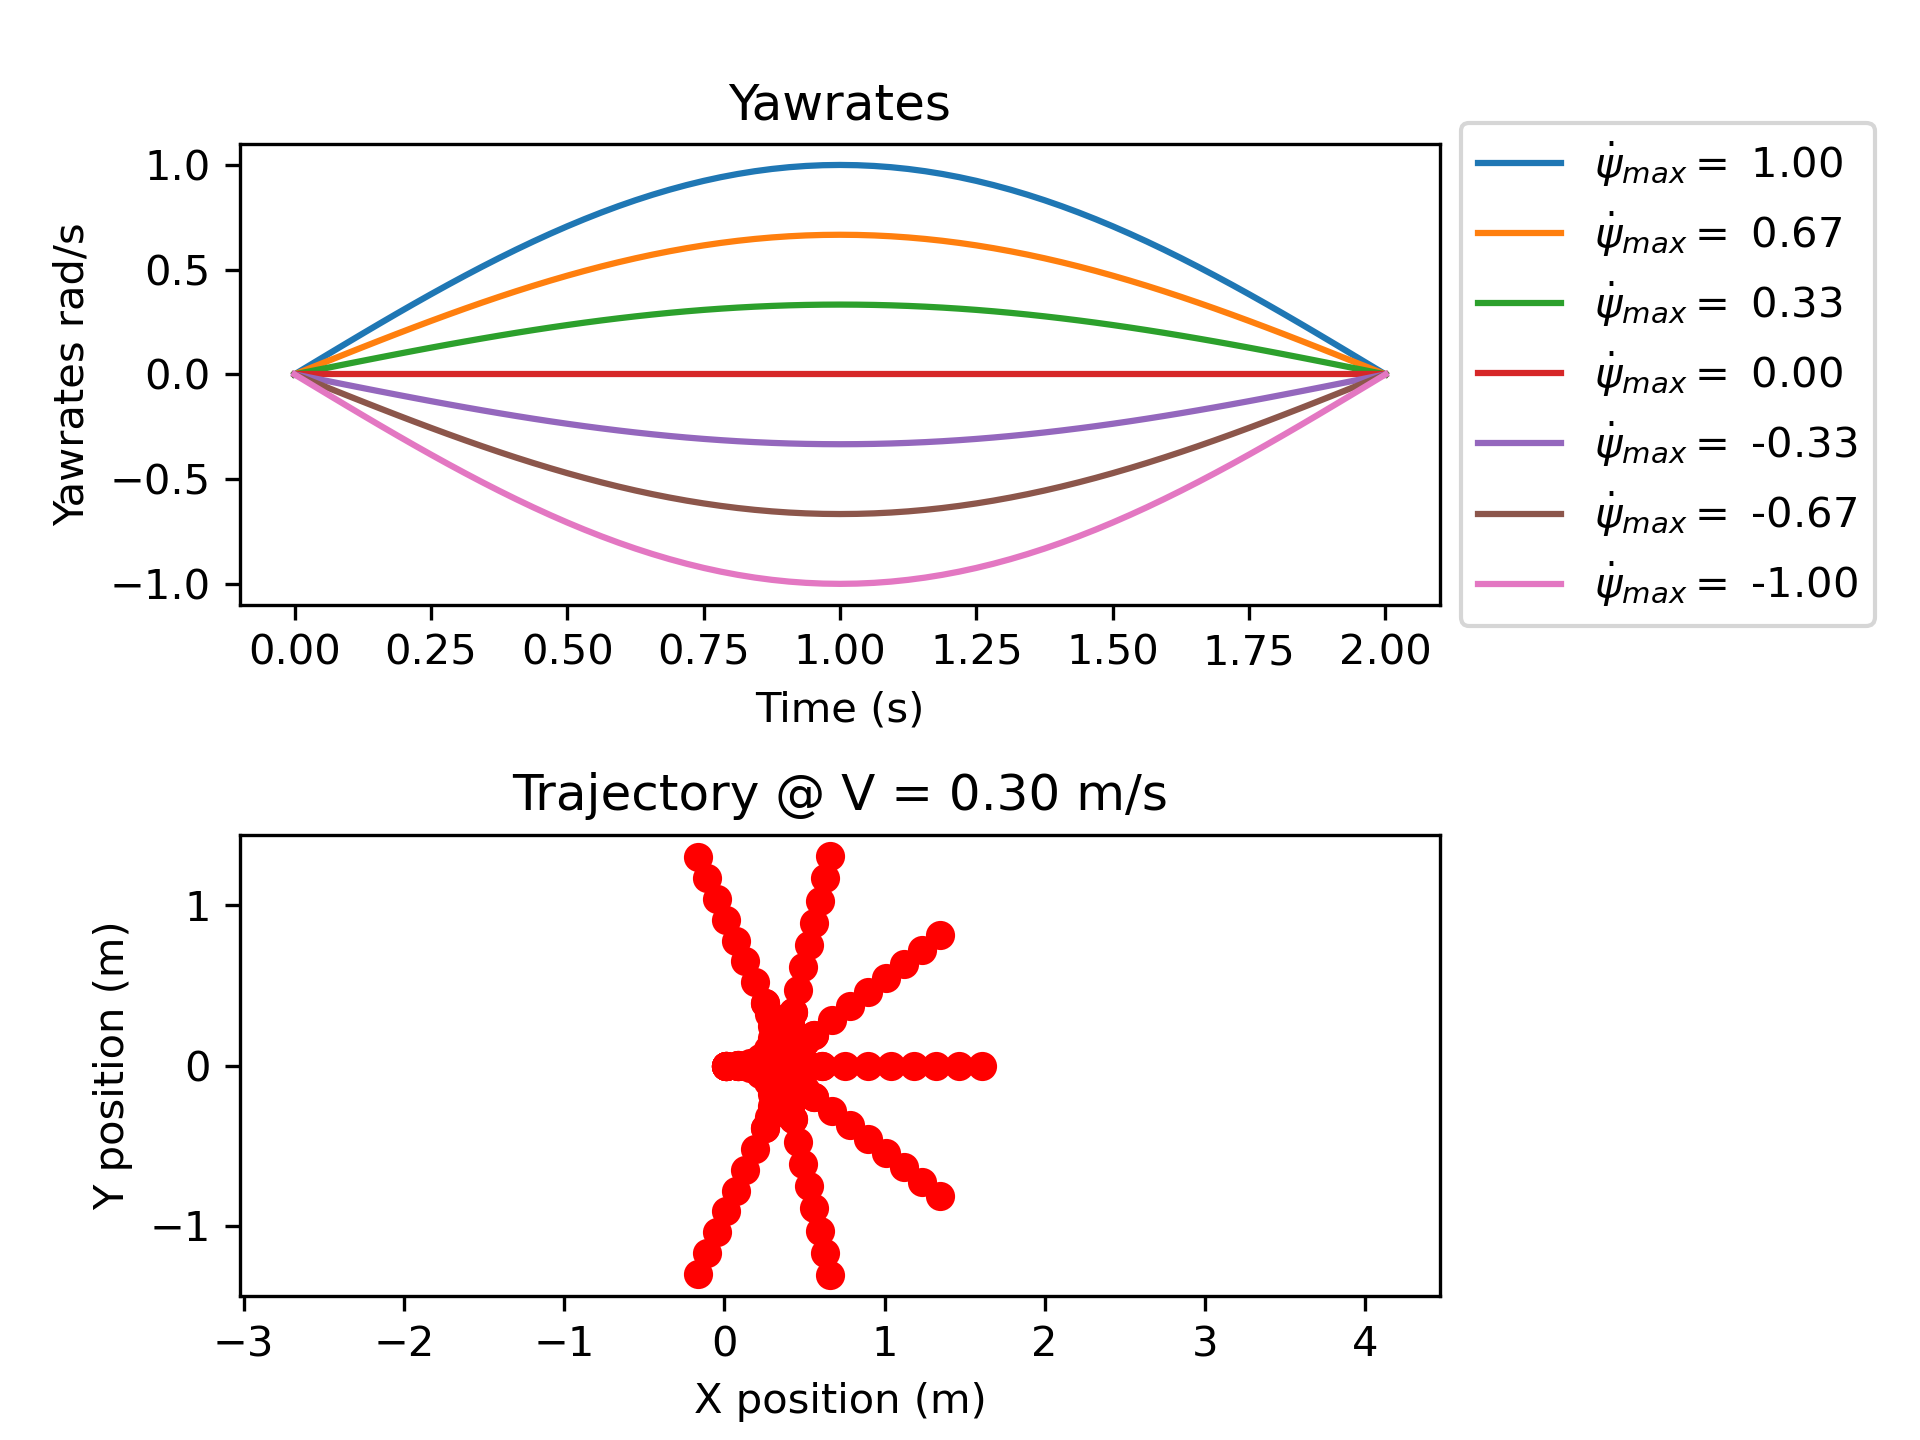
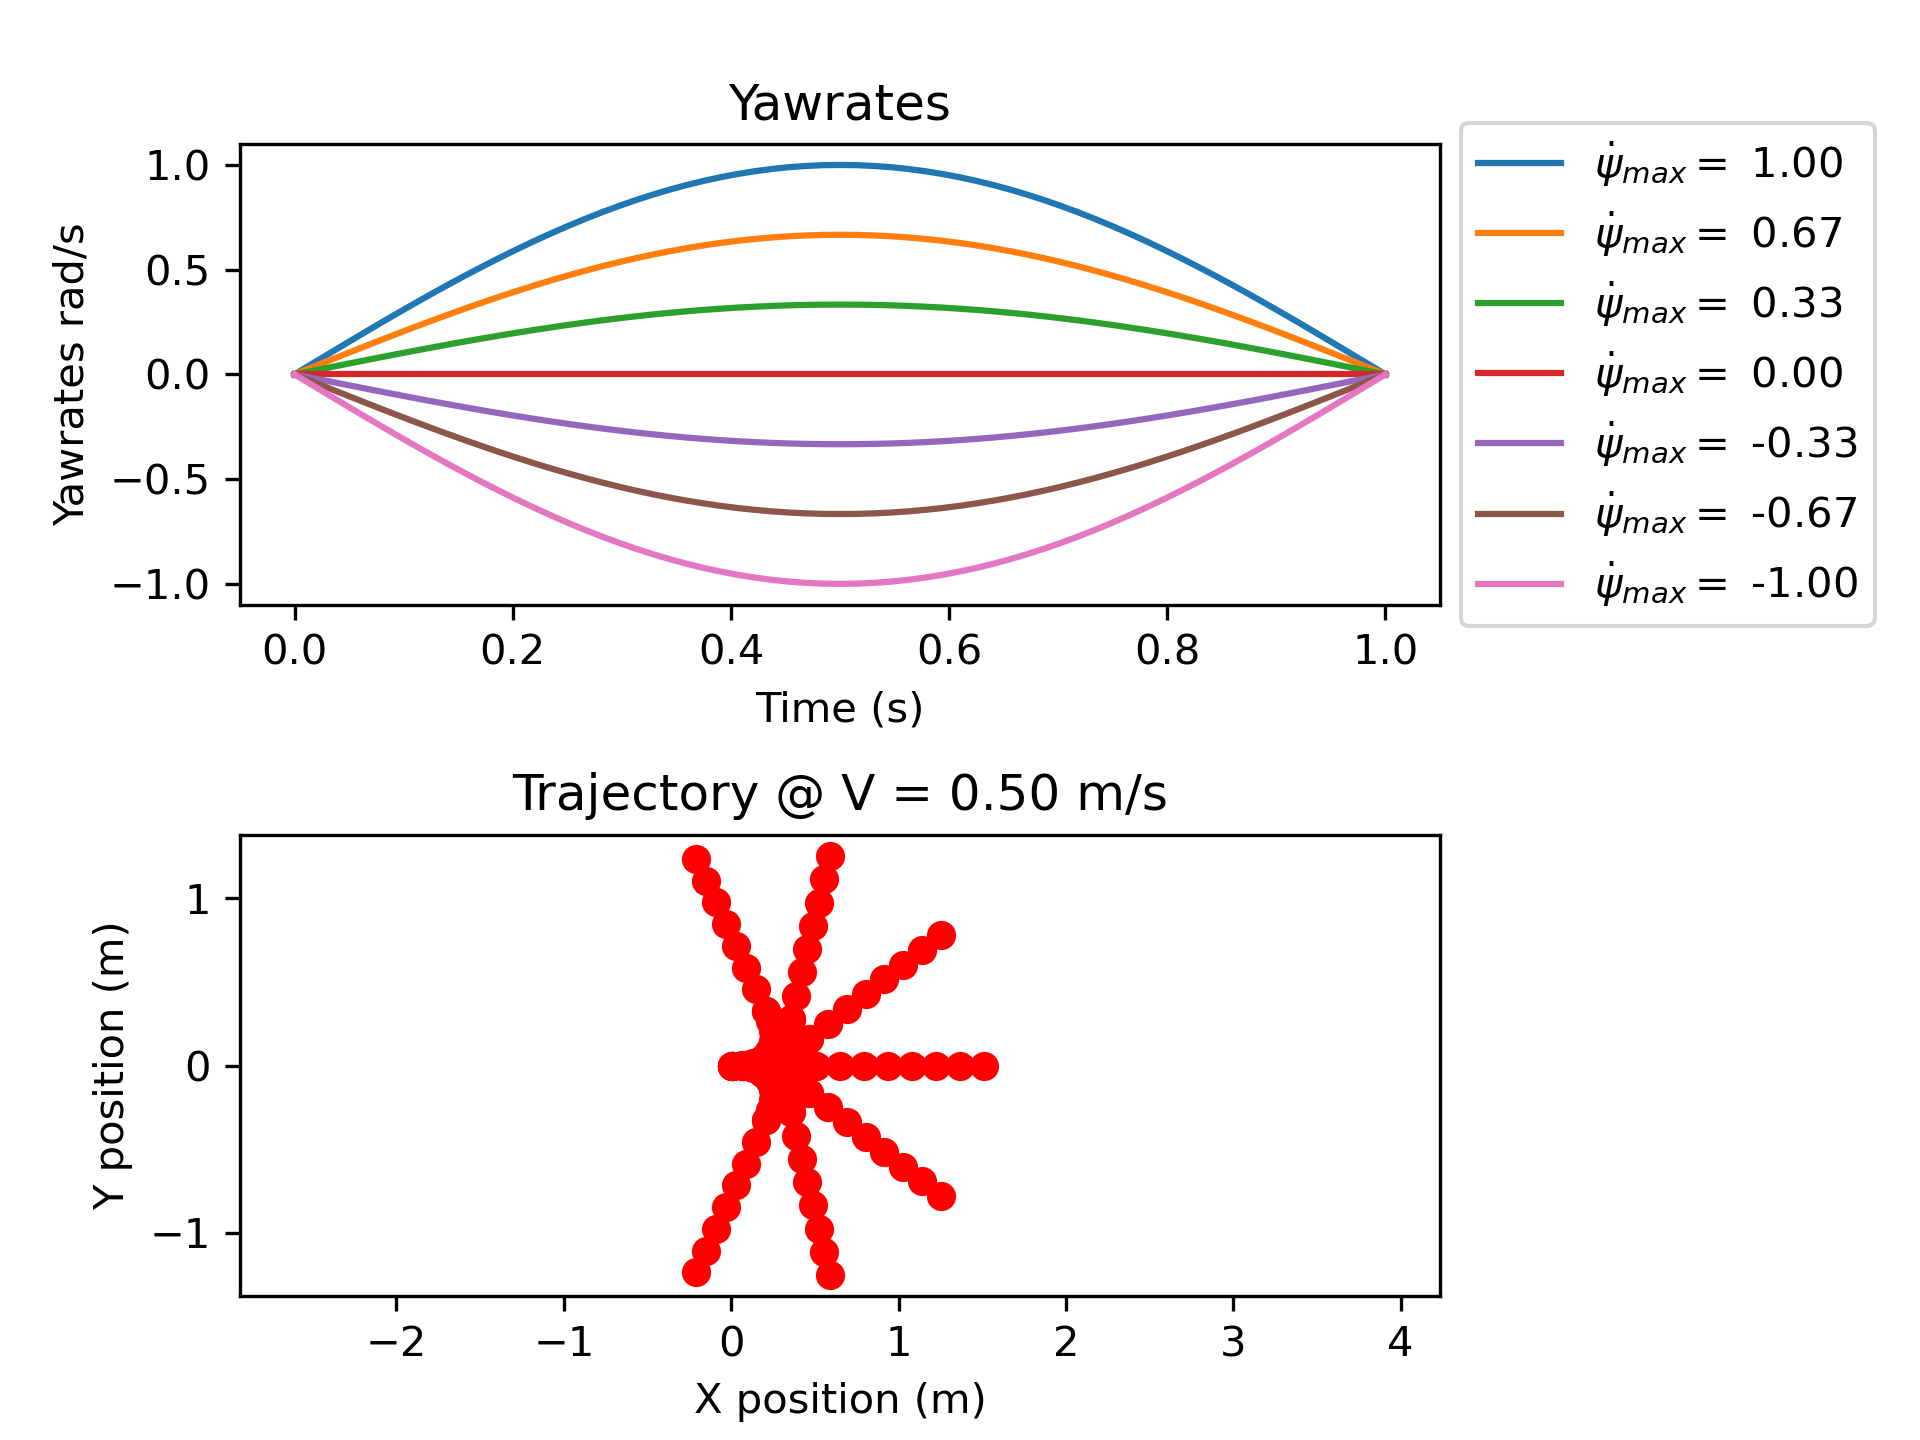
More improvements

diff --git a/mononav.py b/mononav.py
@@ -31,7 +31,7 @@ import os
 import open3d as o3d
 import sys
 
-# Add path to DepthAnythingV2
+# Add DepthAnythingV2-metric path
 repo_root = os.path.abspath(os.path.join(os.path.dirname(__file__), '..'))
 metric_depth_path = os.path.join(repo_root, 'metric_depth')
 sys.path.insert(0, metric_depth_path)
@@ -46,21 +46,45 @@ from depth_anything_v2.dpt import DepthAnythingV2
 # from cflib.crazyflie.syncCrazyflie import SyncCrazyflie
 # from cflib.utils import uri_helper
 
-import mavlink_control as mav
-
-# Keyboard control
-from pynput import keyboard
+import mavlink_control as mav          # import the mavlink helper script          
+from pynput import keyboard            # Keyboard control
 
 # helper functions
 from utils.utils import *
 
+# LOAD VALUES FROM CONFIG FILE
+config = load_config('config.yml')
+
+INPUT_SIZE = config['INPUT_SIZE']      # Image size
+CHECKPOINT = config['DA2_CHECKPOINT']  # path to checkpoint for DepthAnythingV2
+ENCODER = CHECKPOINT[-8:-3]            # extract encoder type from checkpoint filename (assumes format "DA2_{ENCODER}_checkpoint.pth")  
+MAX_DEPTH = 20
+DEVICE = 'cuda' if torch.cuda.is_available() else 'cpu'
+
+# DepthAnythingV2 model configurations. You typically only need small or base models
+model_configs = {
+    'vits': {'encoder': 'vits', 'features': 64, 'out_channels': [48, 96, 192, 384]},
+    'vitb': {'encoder': 'vitb', 'features': 128, 'out_channels': [96, 192, 384, 768]},
+    'vitl': {'encoder': 'vitl', 'features': 256, 'out_channels': [256, 512, 1024, 1024]},
+    # 'vitg': {'encoder': 'vitg', 'features': 384, 'out_channels': [1536, 1536, 1536, 1536]}
+}
+
+# Initialize the DepthAnythingV2 model and load the checkpoint
+depth_anything = DepthAnythingV2(**{**model_configs[config['DA2_ENCODER']], 'max_depth': MAX_DEPTH})
+depth_anything.load_state_dict(torch.load(CHECKPOINT, map_location='cpu'))
+depth_anything = depth_anything.to(DEVICE).eval()
+model_device = next(depth_anything.parameters()).device
+
+print(f"[device] torch.cuda.is_available()={torch.cuda.is_available()}")
+print(f"[device] selected DEVICE={DEVICE}, model_device={model_device}")
+if torch.cuda.is_available():
+    print(f"[device] cuda_name={torch.cuda.get_device_name(torch.cuda.current_device())}")
+if model_device.type != 'cuda' and torch.cuda.is_available():
+    print("[warning] CUDA is available but model is not on CUDA.")
+
 # GLOBAL VARIABLES
 last_key_pressed = None  # store the last key pressed
 shouldStop = False
-
-# LOAD VALUES FROM CONFIG FILE
-CONFIG_PATH = 'config.yml'
-config = load_config('config.yml')
 
 # URI = uri_helper.uri_from_env(default=config['radio_uri'])
 # logging.basicConfig(level=logging.ERROR)
@@ -91,25 +115,8 @@ kinect = o3d.camera.PinholeCameraIntrinsic(o3d.camera.PinholeCameraIntrinsicPara
 # zoe = model_zoe.to(DEVICE)
 
 STREAM_URL = config['camera_ip']       # YOUR ESP32 HTTP MJPEG stream
-INPUT_SIZE = config['INPUT_SIZE']      # Image size
-CHECKPOINT = config['DA2_CHECKPOINT']  # path to checkpoint for DepthAnythingV2
-ENCODER = CHECKPOINT[-8:-3]             # extract encoder type from checkpoint filename (assumes format "DA2_{ENCODER}_checkpoint.pth")  
-MAX_DEPTH = 20
-GRAYSCALE = False
-DEVICE = 'cuda' if torch.cuda.is_available() else 'cpu'
 #OUTDIR = './esp32_depth'
 #os.makedirs(OUTDIR, exist_ok=True)
-
-depth_anything = DepthAnythingV2(**{**model_configs[config['DA2_ENCODER']], 'max_depth': MAX_DEPTH})
-depth_anything.load_state_dict(torch.load(CHECKPOINT, map_location='cpu'))
-depth_anything = depth_anything.to(DEVICE).eval()
-model_device = next(depth_anything.parameters()).device
-print(f"[device] torch.cuda.is_available()={torch.cuda.is_available()}")
-print(f"[device] selected DEVICE={DEVICE}, model_device={model_device}")
-if torch.cuda.is_available():
-    print(f"[device] cuda_name={torch.cuda.get_device_name(torch.cuda.current_device())}")
-if model_device.type != 'cuda' and torch.cuda.is_available():
-    print("[warning] CUDA is available but model is not on CUDA.")
 
 # Initialize VoxelBlockGrid
 depth_scale = config['VoxelBlockGrid']['depth_scale']
@@ -179,20 +186,18 @@ def main():
     # Run the depth model a few times (the first inference is slow), and skip the first few frames
     cap = VideoCapture(STREAM_URL)
     for i in range(0, config['num_pre_depth_frames']):
-        rgb = cap.read()
+        bgr = cap.read()
         # COMPUTE DEPTH
         start_time_test = time.time()
-        depth_numpy, depth_colormap = compute_depth(depth_anything, rgb, INPUT_SIZE)
+        depth_numpy, depth_colormap = compute_depth(depth_anything, bgr, INPUT_SIZE)
         print("TIME TO COMPUTE DEPTH:",time.time()-start_time_test)
-        cv2.imshow("frame", rgb)
+        cv2.imshow("frame", bgr)
         cv2.waitKey(1)
     cv2.destroyAllWindows()
 
     # CRAZYFLIE CONTROL
     # Initialize the low-level drivers
     #cflib.crtp.init_drivers()
-
-
 
     # with SyncCrazyflie(URI, cf=Crazyflie(rw_cache='./cache')) as scf:
     #     cf = scf.cf
@@ -385,7 +390,7 @@ def main():
             start_time = time.time()
             while time.time() - start_time < period:
                 if FLY_VEHICLE:
-                    mav.send_body_offset_ned_vel_once(0, 0, 0, yaw_rate=0)
+                    mav.send_body_offset_ned_vel(0, 0, 0, yaw_rate=0)
                 idle_bgr = cap.read()
                 cv2.imshow("frame", idle_bgr)
                 cv2.waitKey(1)
@@ -434,7 +439,7 @@ def main():
             # kinect_bgr = cv2.cvtColor(kinect_rgb, cv2.COLOR_RGB2BGR)
             # compute depth
             depth_start = time.time()
-            depth_numpy, depth_colormap = compute_dezpth(
+            depth_numpy, depth_colormap = compute_depth(
                 depth_anything,
                 bgr,
                 INPUT_SIZE,

diff --git a/utils/utils.py b/utils/utils.py
@@ -28,19 +28,25 @@ import yaml, json
 # from cflib.crazyflie.log import LogConfig
 # from cflib.crazyflie.syncLogger import SyncLogger
 
-# import the mavlink helper script
-import mavlink_control as mav
+import queue, threading                # For bufferless video capture
 
-# For bufferless video capture
-import queue, threading
+"""
+Compute depth from an RGB image using DepthAnythingV2
+Returns depth_numpy (uint16 in mm), depth_colormap (for visualization)
+"""
+def compute_depth(depth_anything, frame, size, make_colormap=True):
+    # Compute depth
+    depth = depth_anything.infer_image(frame, size)  # as torch tensor
+    depth_numpy = np.asarray(depth) # Convert to numpy array
+    depth_numpy = 1000*depth_numpy # Convert to mm
+    depth_numpy = depth_numpy.astype(np.uint16) # Convert to uint16
 
-# DepthAnythingV2 model configurations. You typically only need small or base models
-model_configs = {
-    'vits': {'encoder': 'vits', 'features': 64, 'out_channels': [48, 96, 192, 384]},
-    'vitb': {'encoder': 'vitb', 'features': 128, 'out_channels': [96, 192, 384, 768]},
-    'vitl': {'encoder': 'vitl', 'features': 256, 'out_channels': [256, 512, 1024, 1024]},
-    # 'vitg': {'encoder': 'vitg', 'features': 384, 'out_channels': [1536, 1536, 1536, 1536]}
-}
+    if make_colormap:
+        depth_colormap = cv2.applyColorMap(cv2.convertScaleAbs(depth_numpy, alpha=0.03), cv2.COLORMAP_JET)
+    else:
+        depth_colormap = None
+
+    return depth_numpy, depth_colormap
 
 """
 VoxelBlockGrid class (adapted from Open3D) for ease of initialization and integration.
@@ -261,25 +267,6 @@ def get_drone_pose():
     Hmtrx = np.hstack((R, xyz.reshape(3,1)))
     # return camera position
     return np.vstack((Hmtrx, np.array([0, 0, 0, 1])))
-
-"""
-Compute depth from an RGB image using DepthAnythingV2
-Returns depth_numpy (uint16 in mm), depth_colormap (for visualization)
-"""
-
-def compute_depth(depth_anything, frame, size, make_colormap=True):
-    # Compute depth
-    depth = depth_anything.infer_image(frame, size)  # as torch tensor
-    depth_numpy = np.asarray(depth) # Convert to numpy array
-    depth_numpy = 1000*depth_numpy # Convert to mm
-    depth_numpy = depth_numpy.astype(np.uint16) # Convert to uint16
-
-    if make_colormap:
-        depth_colormap = cv2.applyColorMap(cv2.convertScaleAbs(depth_numpy, alpha=0.03), cv2.COLORMAP_JET)
-    else:
-        depth_colormap = None
-
-    return depth_numpy, depth_colormap
     
 """
 Load the poses (after navigation, for analysis) from the posedir.

diff --git a/mavlink_control.py b/mavlink_control.py
@@ -117,7 +117,7 @@ def takeoff(target_alt):
             break
         time.sleep(0.1)
 
-def send_body_offset_ned_vel(vx, vy, vz=0, duration=0, yaw=0, yaw_rate = 0):
+def send_body_offset_ned_vel(vx, vy, vz=0, yaw_rate = 0):
     """
     Send velocity in BODY_NED frame (forward/back,left/right,up/down).
     Not absolute NED, but with respect to the drone's current heading.
@@ -304,6 +304,7 @@ def test():
         length = 1
         vel = 0.5 
         duration = length/vel
+        period = 1
         def square_pos():
             send_body_offset_ned_pos(length,0)
             time.sleep(5)
@@ -325,7 +326,7 @@ def test():
         #square_vel()
         start=time.time()
         while time.time() - start < 2:
-            send_body_offset_ned_vel(0.5, 0, yaw_rate=6*np.sin(np.pi/1*(time.time() - start)))
+            send_body_offset_ned_vel(0.5, 0, yaw_rate=6*np.sin(np.pi/period*(time.time() - start)))
             time.sleep(0.1)
         print("Landing...")
         set_mode('LAND')

diff --git a/utils/generate_primitives.py b/utils/generate_primitives.py
@@ -22,8 +22,8 @@ import numpy as np
 import matplotlib.pyplot as plt
 
 # Trajectory Constants
-T = 2.0              # s, period of the primitive
-V = 0.3              # m/s, forward speed
+T = 1.0              # s, period of the primitive
+V = 0.5              # m/s, forward speed
 max_yawrate = 1      # rad/s
 num_trajectories = 7 # number of trajectories should be ODD (e.g., 11) to ensure a straight line is included
 num_commands = 65    # number of points in the trajectory
